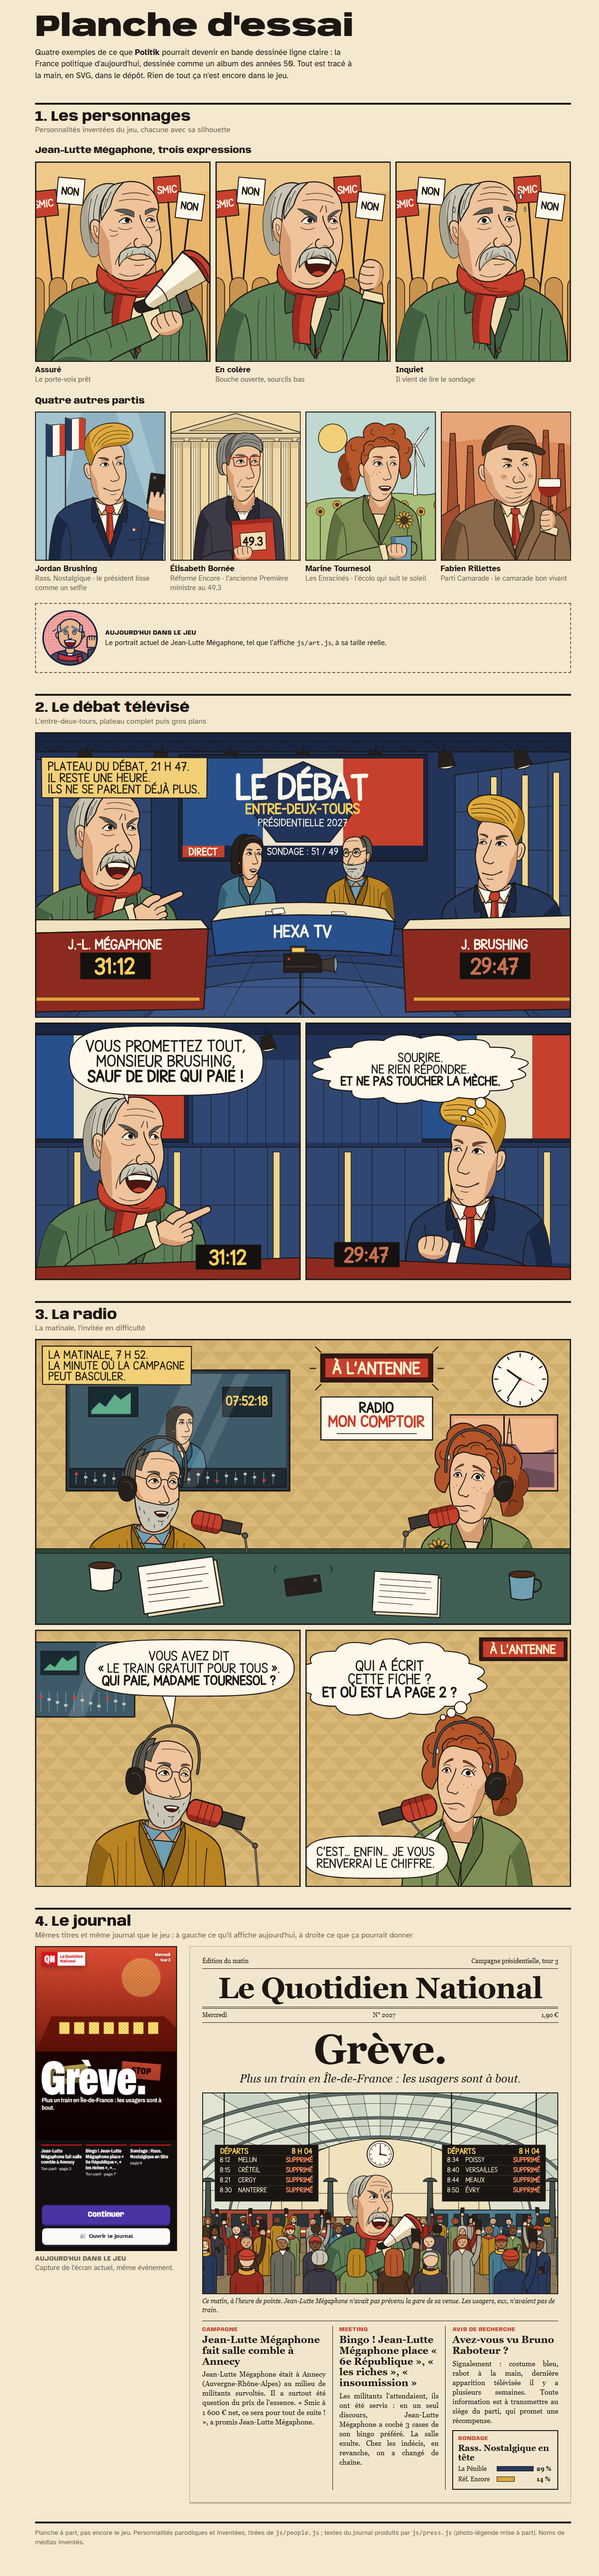
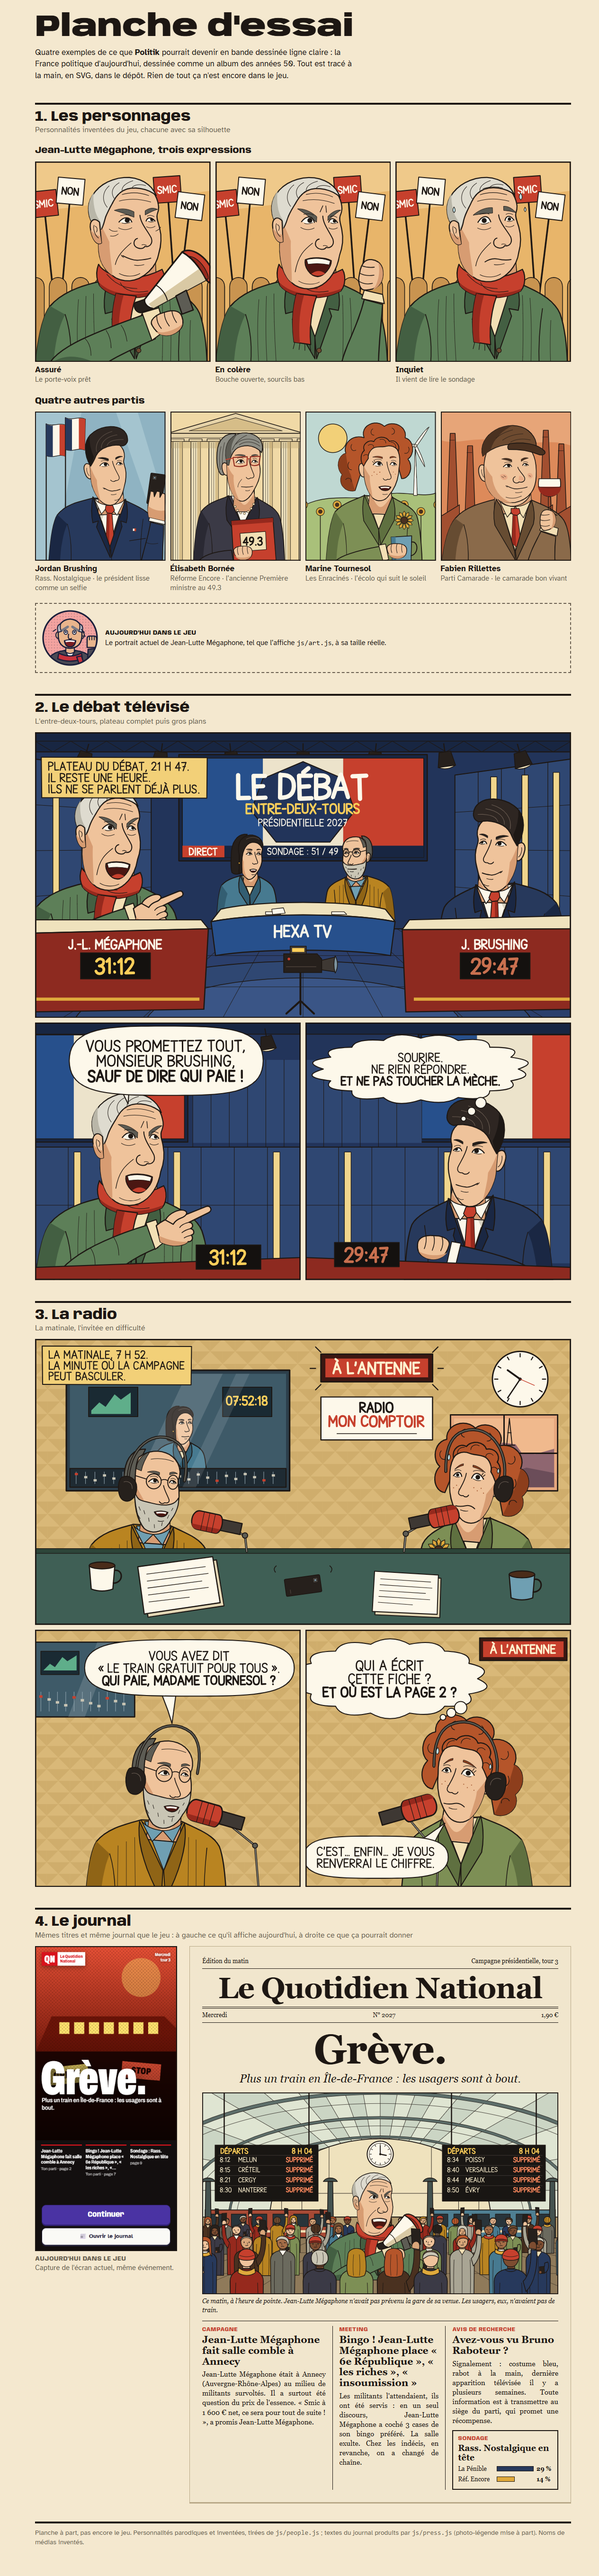
Planche d'essai : Mégaphone et Brushing selon l'essai validé
Mégaphone sans moustache, cheveux gris clair d'un seul tenant ; Brushing brun, coiffé en arrière.

diff --git a/planche-essai/personnages.js b/planche-essai/personnages.js
@@ -77,20 +77,19 @@
 
   /* ---------- Les têtes ---------- */
 
-  /* Jean-Lutte Mégaphone : massif, bajoues, moustache tombante, grands sourcils en broussaille */
+  /* Jean-Lutte Mégaphone : massif, bajoues, rasé de près, cheveux blancs peignés en arrière, grands sourcils en broussaille */
   function teteMegaphone(e) {
     var j = e.j, s = '';
-    s += p('M84,44 C54,30 18,50 10,94 C4,126 10,164 26,184 C34,192 44,188 48,174 L52,92 Z', PAL.grisC);
-    s += a('M10,94 C4,126 10,164 26,184 C34,192 44,188 48,174 L46,150 C34,150 22,128 22,96 C22,80 28,64 36,54 C22,62 13,78 10,94 Z', '#a9a594');
-    s += t('M30,70 C22,96 22,128 30,160 M42,62 C32,88 32,120 38,152', 1.2);
-    s += p('M46,118 C34,106 24,116 28,134 C31,152 40,166 50,160 Z', PAL.peau);
-    s += a('M28,134 C31,152 40,166 50,160 L48,146 C40,146 34,140 28,134 Z', PAL.peauO);
-    s += t('M35,124 C32,130 37,146 44,150 M37,126 C42,128 42,134 40,138', 1.3);
     // visage large, bajoues marquées
     s += p('M60,58 C88,26 144,26 162,70 C167,84 167,92 163,102 C161,110 165,118 168,130 C173,150 171,166 166,182 C' + 163 + ',' + (200 + j * 0.6) + ' ' + 150 + ',' + (220 + j) + ' ' + 126 + ',' + (232 + j) + ' C' + 108 + ',' + (240 + j) + ' ' + 86 + ',' + (238 + j) + ' ' + 72 + ',' + (226 + j) + ' C52,' + (212 + j) + ' 44,192 44,166 L46,120 C44,96 48,74 60,58 Z', PAL.peau);
     s += a('M44,166 C44,192 52,' + (212 + j) + ' 72,' + (226 + j) + ' C72,' + (206 + j) + ' 66,184 66,158 C60,146 54,132 46,120 Z', PAL.peauO);
-    s += p('M60,58 C66,44 80,38 94,38 C82,48 72,64 68,84 C64,92 56,100 50,114 C46,92 50,74 60,58 Z', PAL.grisC);
-    s += t('M60,70 C56,80 54,90 52,100 M70,56 C64,66 60,78 58,90', 1.1);
+    // la chevelure, d'un seul tenant : du haut du front à la nuque, derrière l'oreille
+    s += p('M50,132 C36,130 26,116 24,98 C20,68 44,38 84,29 C112,23 148,32 161,64 C150,54 130,47 110,49 C94,51 82,60 74,76 C68,88 60,100 57,112 C55,120 53,127 50,132 Z', '#dedbcf', 2.6);
+    s += a('M50,132 C36,130 26,116 24,98 C22,84 26,70 34,58 C32,78 36,100 46,114 C49,120 50,126 50,132 Z', '#b9b6a8');
+    s += t('M62,88 C50,74 52,56 66,44 M76,70 C68,58 72,46 86,38 M92,56 C90,46 100,38 114,34 M112,48 C116,42 128,40 140,44', 1.1);
+    s += p('M46,118 C34,106 24,116 28,134 C31,152 40,166 50,160 Z', PAL.peau);
+    s += a('M28,134 C31,152 40,166 50,160 L48,146 C40,146 34,140 28,134 Z', PAL.peauO);
+    s += t('M35,124 C32,130 37,146 44,150 M37,126 C42,128 42,134 40,138', 1.3);
     s += t('M92,62 Q118,54 146,64 M86,75 Q116,67 150,77', 1.2);
     if (e.rides) s += t('M122,96 L127,83 M135,96 L133,83', 1.6);
     if (e.goutte) s += t('M98,50 Q118,44 138,50', 1.2);
@@ -102,27 +101,22 @@
     s += t('M110,160 C94,174 82,186 78,' + (204 + j), 1.5);
     s += t('M86,' + (222 + j) + ' C100,' + (230 + j) + ' 118,' + (228 + j) + ' 128,' + (222 + j), 1.2);
     s += bouche(e.bouche, 125, 193 + j * 0.2, 28, 25);
-    var dr = e.bouche === 'colere' ? -5 : e.bouche === 'assure' ? -9 : 0;
     if (e.bouche === 'assure') s += t('M82,136 Q72,138 66,132 M84,142 Q76,148 68,146 M160,136 Q166,134 170,128', 1.2);
-    s += p('M125,170 C114,165 94,173 88,' + (190 + dr) + ' C85,' + (200 + dr) + ' 84,' + (208 + dr) + ' 86,' + (216 + dr) + ' C93,' + (202 + dr) + ' 108,' + (191 + dr) + ' 127,' + (187 + dr * 0.5) + ' C138,' + (191 + dr) + ' 150,' + (197 + dr) + ' 159,' + (209 + dr) + ' C163,' + (197 + dr) + ' 157,180 148,172 C141,166 131,166 125,170 Z', PAL.grisC, 2.2);
-    s += a('M86,' + (216 + dr) + ' C93,' + (202 + dr) + ' 108,' + (191 + dr) + ' 127,' + (187 + dr * 0.5) + ' L126,180 C110,184 94,194 86,' + (216 + dr) + ' Z', '#a9a594');
-    s += t('M104,180 L98,194 M114,176 L108,190 M136,176 L142,190 M146,180 L150,194', 1.1);
     if (e.goutte) s += goutte(174, 70, 5.5) + goutte(38, 92, 4.5) + goutte(182, 96, 3.6);
     return s;
   }
 
-  /* Jordan Brushing : jeune, mince, menton volontaire, banane parfaite */
+  /* Jordan Brushing : jeune, mince, menton volontaire, cheveux très foncés coiffés en arrière, rasé */
   function teteBrushing(e) {
     var j = e.j, s = '';
     s += p('M58,112 C46,102 38,114 42,130 C45,146 54,156 62,150 Z', PAL.peau);
     s += t('M49,120 C47,128 51,140 56,143', 1.3);
     s += p('M62,60 C88,40 140,40 154,74 C158,86 157,94 154,102 C152,110 156,118 158,128 C161,146 158,160 153,176 C' + 149 + ',' + (194 + j * 0.7) + ' ' + 142 + ',' + (212 + j) + ' ' + 126 + ',' + (224 + j) + ' C' + 112 + ',' + (232 + j) + ' ' + 96 + ',' + (228 + j) + ' ' + 84 + ',' + (214 + j) + ' C70,' + (198 + j) + ' 62,176 60,158 L58,110 C56,90 56,74 62,60 Z', PAL.peau);
     s += a('M60,158 C62,176 70,' + (198 + j) + ' 84,' + (214 + j) + ' C80,194 76,174 76,156 C70,146 64,132 58,112 Z', PAL.peauO);
-    s += p('M60,112 C50,92 42,72 46,48 C50,18 84,-4 124,-4 C154,-4 178,8 182,28 C184,42 174,54 160,58 C148,62 132,60 116,62 C98,64 84,70 76,82 C70,92 66,102 62,114 Z', PAL.ocre, 2.6);
-    s += a('M60,112 C50,92 42,72 46,48 C48,38 54,28 62,20 C58,44 62,64 72,84 C68,92 64,102 62,114 Z', PAL.ocreO);
-    s += a('M84,66 C100,52 130,48 172,50 C166,56 158,58 150,60 C132,60 104,62 84,66 Z', PAL.ocreO);
-    s += t('M72,62 C84,28 120,10 170,22 M82,58 C96,36 124,22 174,32 M92,58 C106,44 130,36 172,42 M66,50 C74,24 96,8 126,5', 1.3);
-    s += sourcil(96, 98, 30, e.bi, e.be, 5.6, PAL.brun, 1) + sourcil(141, 96, 20, e.bi, e.be, 4.6, PAL.brun, -1);
+    s += p('M60,116 C50,98 44,76 48,54 C53,26 84,6 120,6 C146,6 166,20 167,42 C168,52 162,60 152,62 C134,56 112,60 96,68 C84,74 76,86 72,96 C68,104 64,110 60,116 Z', '#2e2622', 2.6);
+    s += a('M60,116 C50,98 44,76 48,54 C50,44 54,36 60,28 C58,50 62,72 70,90 C68,100 64,108 60,116 Z', '#1d1815');
+    s += t('M78,76 C74,50 92,28 124,20 M92,66 C92,48 108,34 138,30 M108,60 C112,48 128,42 156,44', 1.2).replace('stroke="' + INK + '"', 'stroke="#6b5d52"');
+    s += sourcil(96, 98, 30, e.bi, e.be, 5.6, PAL.noir, 1) + sourcil(141, 96, 20, e.bi, e.be, 4.6, PAL.noir, -1);
     s += oeil(99, 114, 24, e.ouv, e.reg, e.regY, 1) + oeil(142, 112, 16, e.ouv, e.reg, e.regY, -1);
     s += t('M122,104 C124,120 134,136 139,148 C141,156 136,160 129,159 C125,163 118,162 115,157', 2);
     if (e.rides) s += t('M116,94 L120,84 M126,94 L124,84', 1.4);
